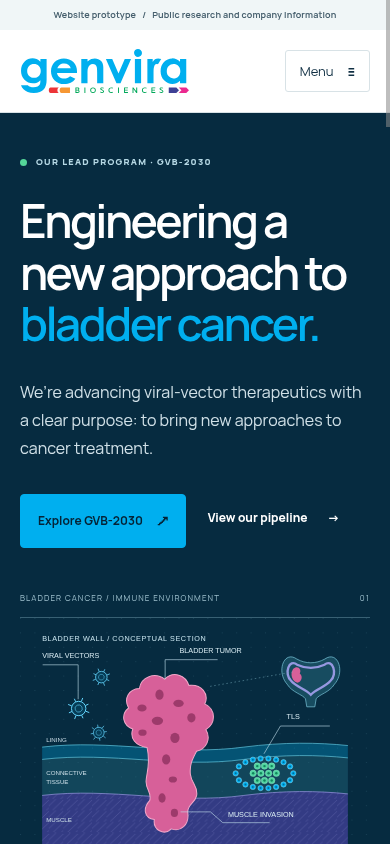
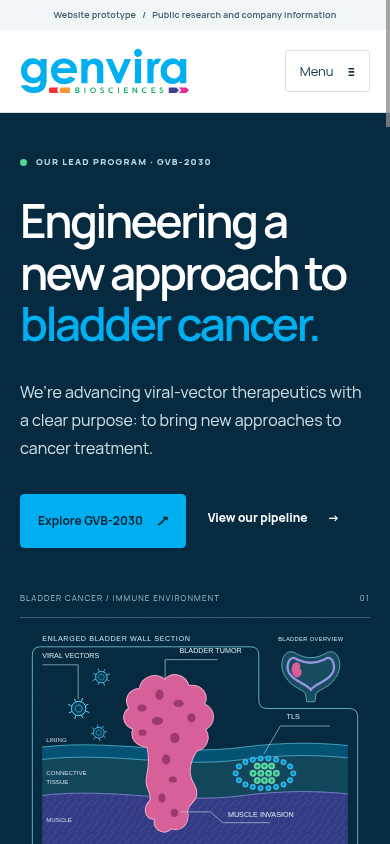
frame the enlarged bladder section and separate the overview

diff --git a/docs/prototype.md b/docs/prototype.md
@@ -65,7 +65,7 @@ Browser captures of the actual WordPress theme: [desktop homepage](../wp-content
 
 ## CEO illustration update, 16 November 2026
 
-The homepage now shows a bladder-wall section with a tumor extending through the lining and connective tissue into muscle, rather than only an isolated viral vector. The illustration includes an anatomical bladder inset, cyan viral-vector symbols, and a tertiary lymphoid structure (TLS) with B-cell and T-cell groups. TLS was interpreted as tertiary lymphoid structures in this oncology context.
+The homepage now shows a bladder-wall section with a tumor extending through the lining and connective tissue into muscle, rather than only an isolated viral vector. The illustration includes a separate whole-bladder overview, cyan viral-vector symbols, and a tertiary lymphoid structure (TLS) with B-cell and T-cell groups. An outline frames the enlarged wall section, with the overview outside the frame and no dotted connector. TLS was interpreted as tertiary lymphoid structures in this oncology context.
 
 The GVB-2030 page repeats the schematic and explains its disease context in readable text. Stage II is used as the concrete example of muscle invasion beyond stages 0 and I, following the [National Cancer Institute staging description](https://www.cancer.gov/types/bladder/stages). This does not relabel every stage beyond I as metastatic or establish a clinical eligibility criterion for GVB-2030. The program's public indication and IND-enabling development status remain as previously sourced.
 
